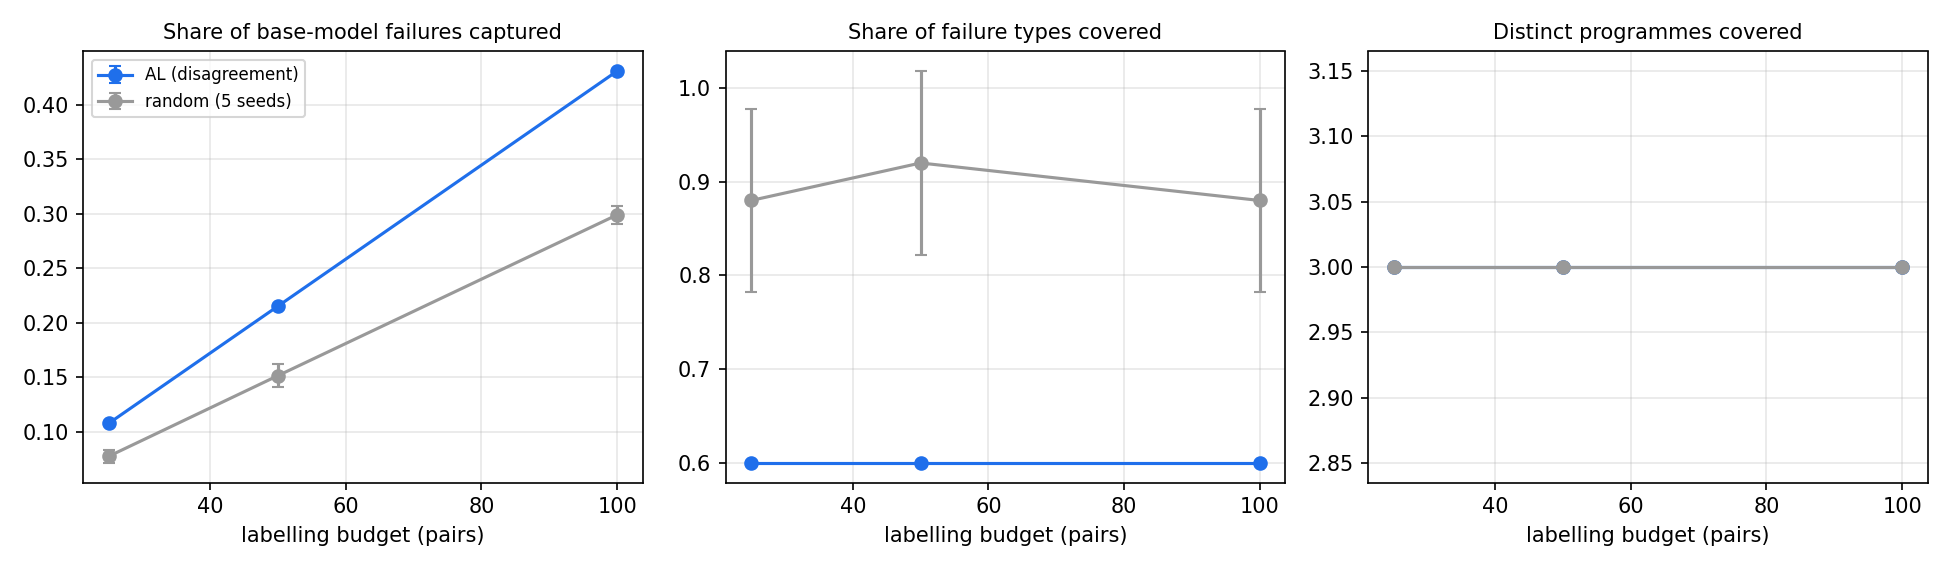
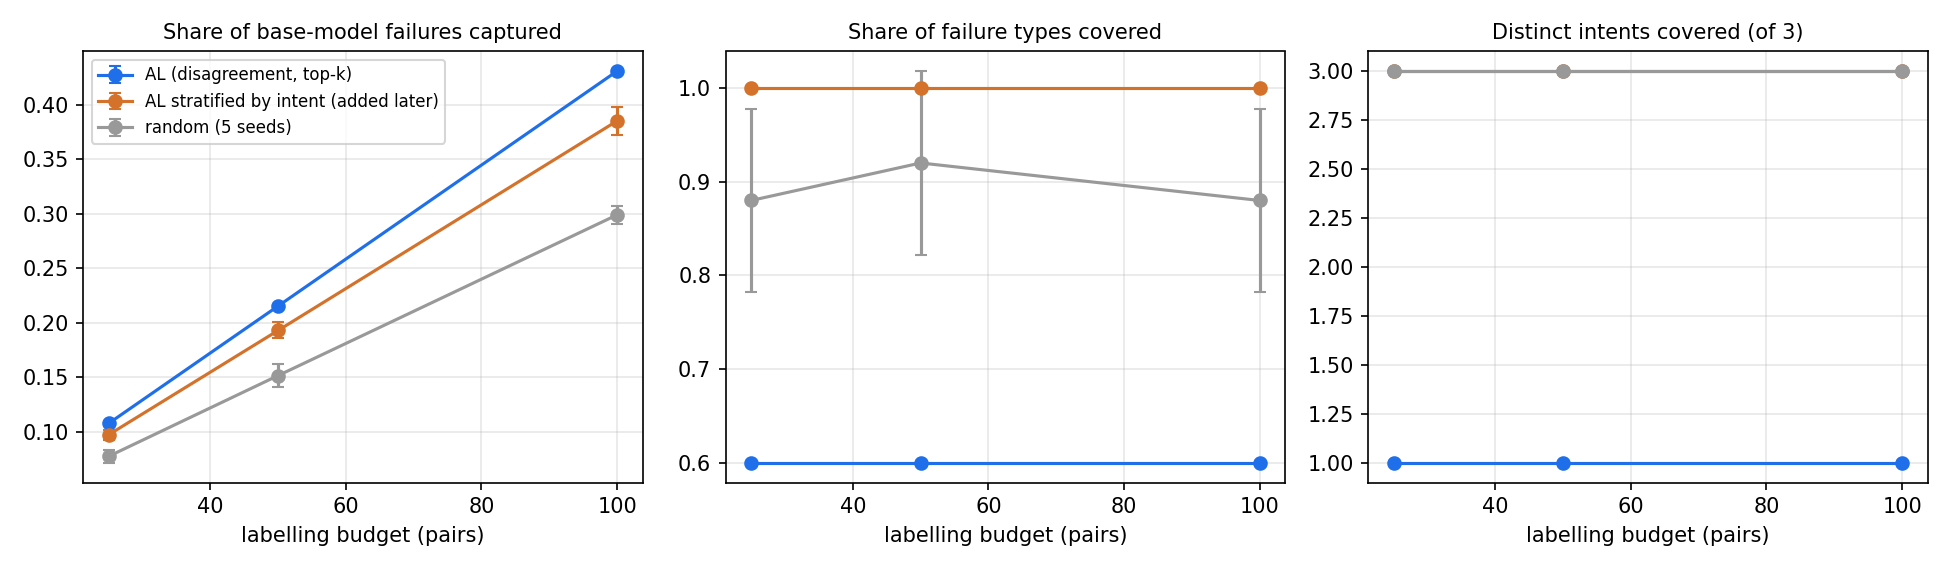
Active learning: add intent-stratified variant alongside the original top-k
Plain top-k drew all picks from remaining_core (60% of failure types);
the stratified variant covers all types and still beats random.

diff --git a/src/active/al_vs_random.py b/src/active/al_vs_random.py
@@ -42,14 +42,39 @@ def al_pick(pool, k, seed):
     return sorted(order, key=lambda p: -p["score"])[:k]
 
 
+def al_stratified_pick(pool, k, seed):
+    """Same score, but the budget is shared evenly across intents (round robin over per-intent rankings).
+    Added after the first run showed plain top-k drawing every pick from one intent."""
+    rng = random.Random(seed)
+    order = list(pool)
+    rng.shuffle(order)
+    ranked = {}
+    for p in sorted(order, key=lambda p: -p["score"]):
+        ranked.setdefault(p["intent"], []).append(p)
+    queues = [ranked[i] for i in sorted(ranked)]
+    picked = []
+    while len(picked) < min(k, len(pool)):
+        for q in queues:
+            if q and len(picked) < k:
+                picked.append(q.pop(0))
+    return picked
+
+
 def random_pick(pool, k, seed):
     return random.Random(seed).sample(pool, min(k, len(pool)))
+
+
+STRATEGIES = (("active_learning", al_pick), ("active_learning_stratified", al_stratified_pick),
+              ("random", random_pick))
+LABELS = {"active_learning": "AL (disagreement, top-k)", "active_learning_stratified": "AL stratified by intent (added later)",
+          "random": "random (5 seeds)"}
+COLORS = {"active_learning": "#1f6feb", "active_learning_stratified": "#d4722b", "random": "#999999"}
 
 
 def run(pool, budgets, seeds):
     rows = []
     for k in budgets:
-        for name, fn in (("active_learning", al_pick), ("random", random_pick)):
+        for name, fn in STRATEGIES:
             per_seed = [metrics(fn(pool, k, s), pool) for s in seeds]
             row = {"budget": k, "strategy": name, "n_seeds": len(seeds)}
             for m in METRICS:
@@ -64,13 +89,12 @@ def plot(rows, path):
     fig, axes = plt.subplots(1, 3, figsize=(13, 3.8))
     panels = [("failures_captured", "Share of base-model failures captured"),
               ("failure_types_covered", "Share of failure types covered"),
-              ("programmes_covered", "Distinct programmes covered")]
+              ("intents_covered", "Distinct intents covered (of 3)")]
     for ax, (m, title) in zip(axes, panels):
-        for name, color in (("active_learning", "#1f6feb"), ("random", "#999999")):
+        for name, _ in STRATEGIES:
             pts = [r for r in rows if r["strategy"] == name]
             xs, ys, sd = [r["budget"] for r in pts], [r[m] for r in pts], [r[f"{m}_sd"] for r in pts]
-            ax.errorbar(xs, ys, yerr=sd, marker="o", capsize=3, color=color,
-                        label="AL (disagreement)" if name == "active_learning" else "random (5 seeds)")
+            ax.errorbar(xs, ys, yerr=sd, marker="o", capsize=3, color=COLORS[name], label=LABELS[name])
         ax.set_title(title, fontsize=10)
         ax.set_xlabel("labelling budget (pairs)")
         ax.grid(alpha=0.3)
@@ -92,7 +116,9 @@ def write_summary(rows, pool, pool_note, path):
     for r in rows:
         lines.append(f"| {r['budget']} | {r['strategy']} | {r['failures_captured']:.2f} (sd {r['failures_captured_sd']:.2f}) | "
                      f"{r['failure_types_covered']:.2f} | {r['programmes_covered']:.1f} | {r['intents_covered']:.1f} |")
-    lines += ["", "Random is the mean over the 5 seeds in seeds.active_learning; AL uses the same seeds only to "
+    lines += ["", "active_learning_stratified was added after the first run, which showed plain top-k drawing every "
+              "pick from remaining_core; the original strategy and its numbers are kept unchanged.",
+              "", "Random is the mean over the 5 seeds in seeds.active_learning; AL uses the same seeds only to "
               "break ties. A budget at or above the number of failures lets AL capture all of them, so the "
               "interesting comparison is at budgets below that number.", ""]
     path.write_text("\n".join(lines))

diff --git a/supporting_files/D_active_learning/summary.md b/supporting_files/D_active_learning/summary.md
@@ -7,10 +7,15 @@ Score (see src/active/disagreement.py): 3 for invalid JSON, else (1 - Jaccard of
 | budget | strategy | failures captured | failure types covered | programmes | intents |
 |---|---|---|---|---|---|
 | 25 | active_learning | 0.11 (sd 0.00) | 0.60 | 3.0 | 1.0 |
+| 25 | active_learning_stratified | 0.10 (sd 0.00) | 1.00 | 3.0 | 3.0 |
 | 25 | random | 0.08 (sd 0.01) | 0.88 | 3.0 | 3.0 |
 | 50 | active_learning | 0.22 (sd 0.00) | 0.60 | 3.0 | 1.0 |
+| 50 | active_learning_stratified | 0.19 (sd 0.01) | 1.00 | 3.0 | 3.0 |
 | 50 | random | 0.15 (sd 0.01) | 0.92 | 3.0 | 3.0 |
 | 100 | active_learning | 0.43 (sd 0.00) | 0.60 | 3.0 | 1.0 |
+| 100 | active_learning_stratified | 0.39 (sd 0.01) | 1.00 | 3.0 | 3.0 |
 | 100 | random | 0.30 (sd 0.01) | 0.88 | 3.0 | 3.0 |
+
+active_learning_stratified was added after the first run, which showed plain top-k drawing every pick from remaining_core; the original strategy and its numbers are kept unchanged.
 
 Random is the mean over the 5 seeds in seeds.active_learning; AL uses the same seeds only to break ties. A budget at or above the number of failures lets AL capture all of them, so the interesting comparison is at budgets below that number.
